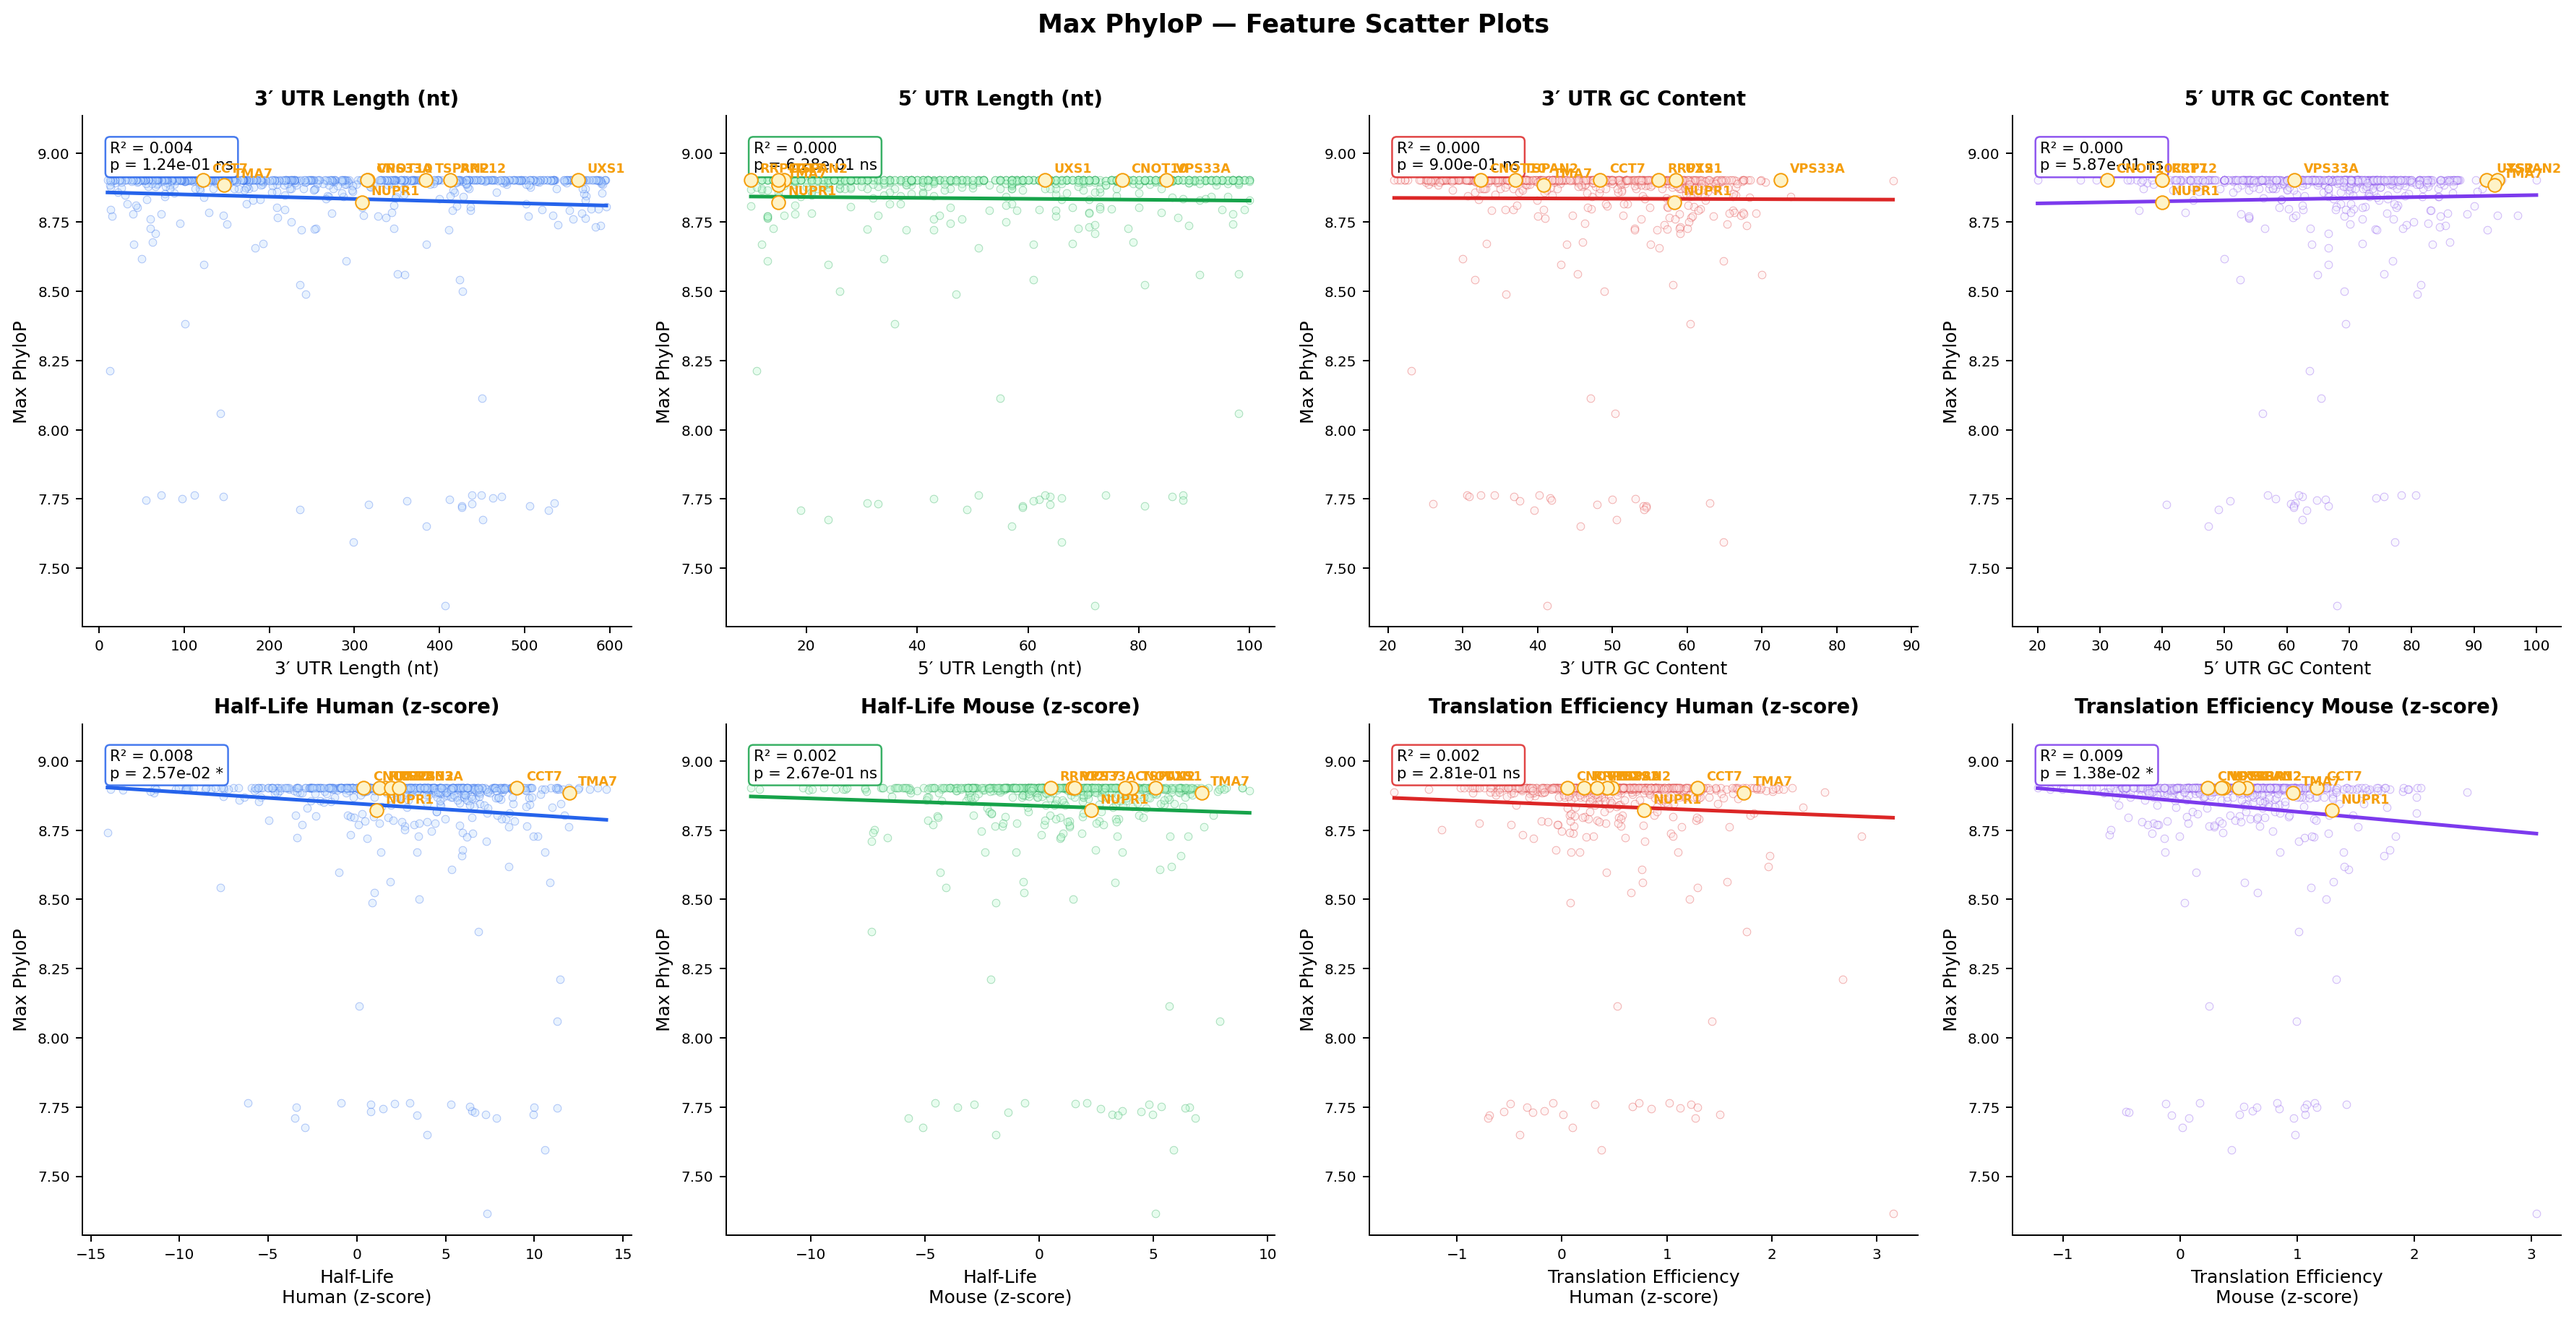
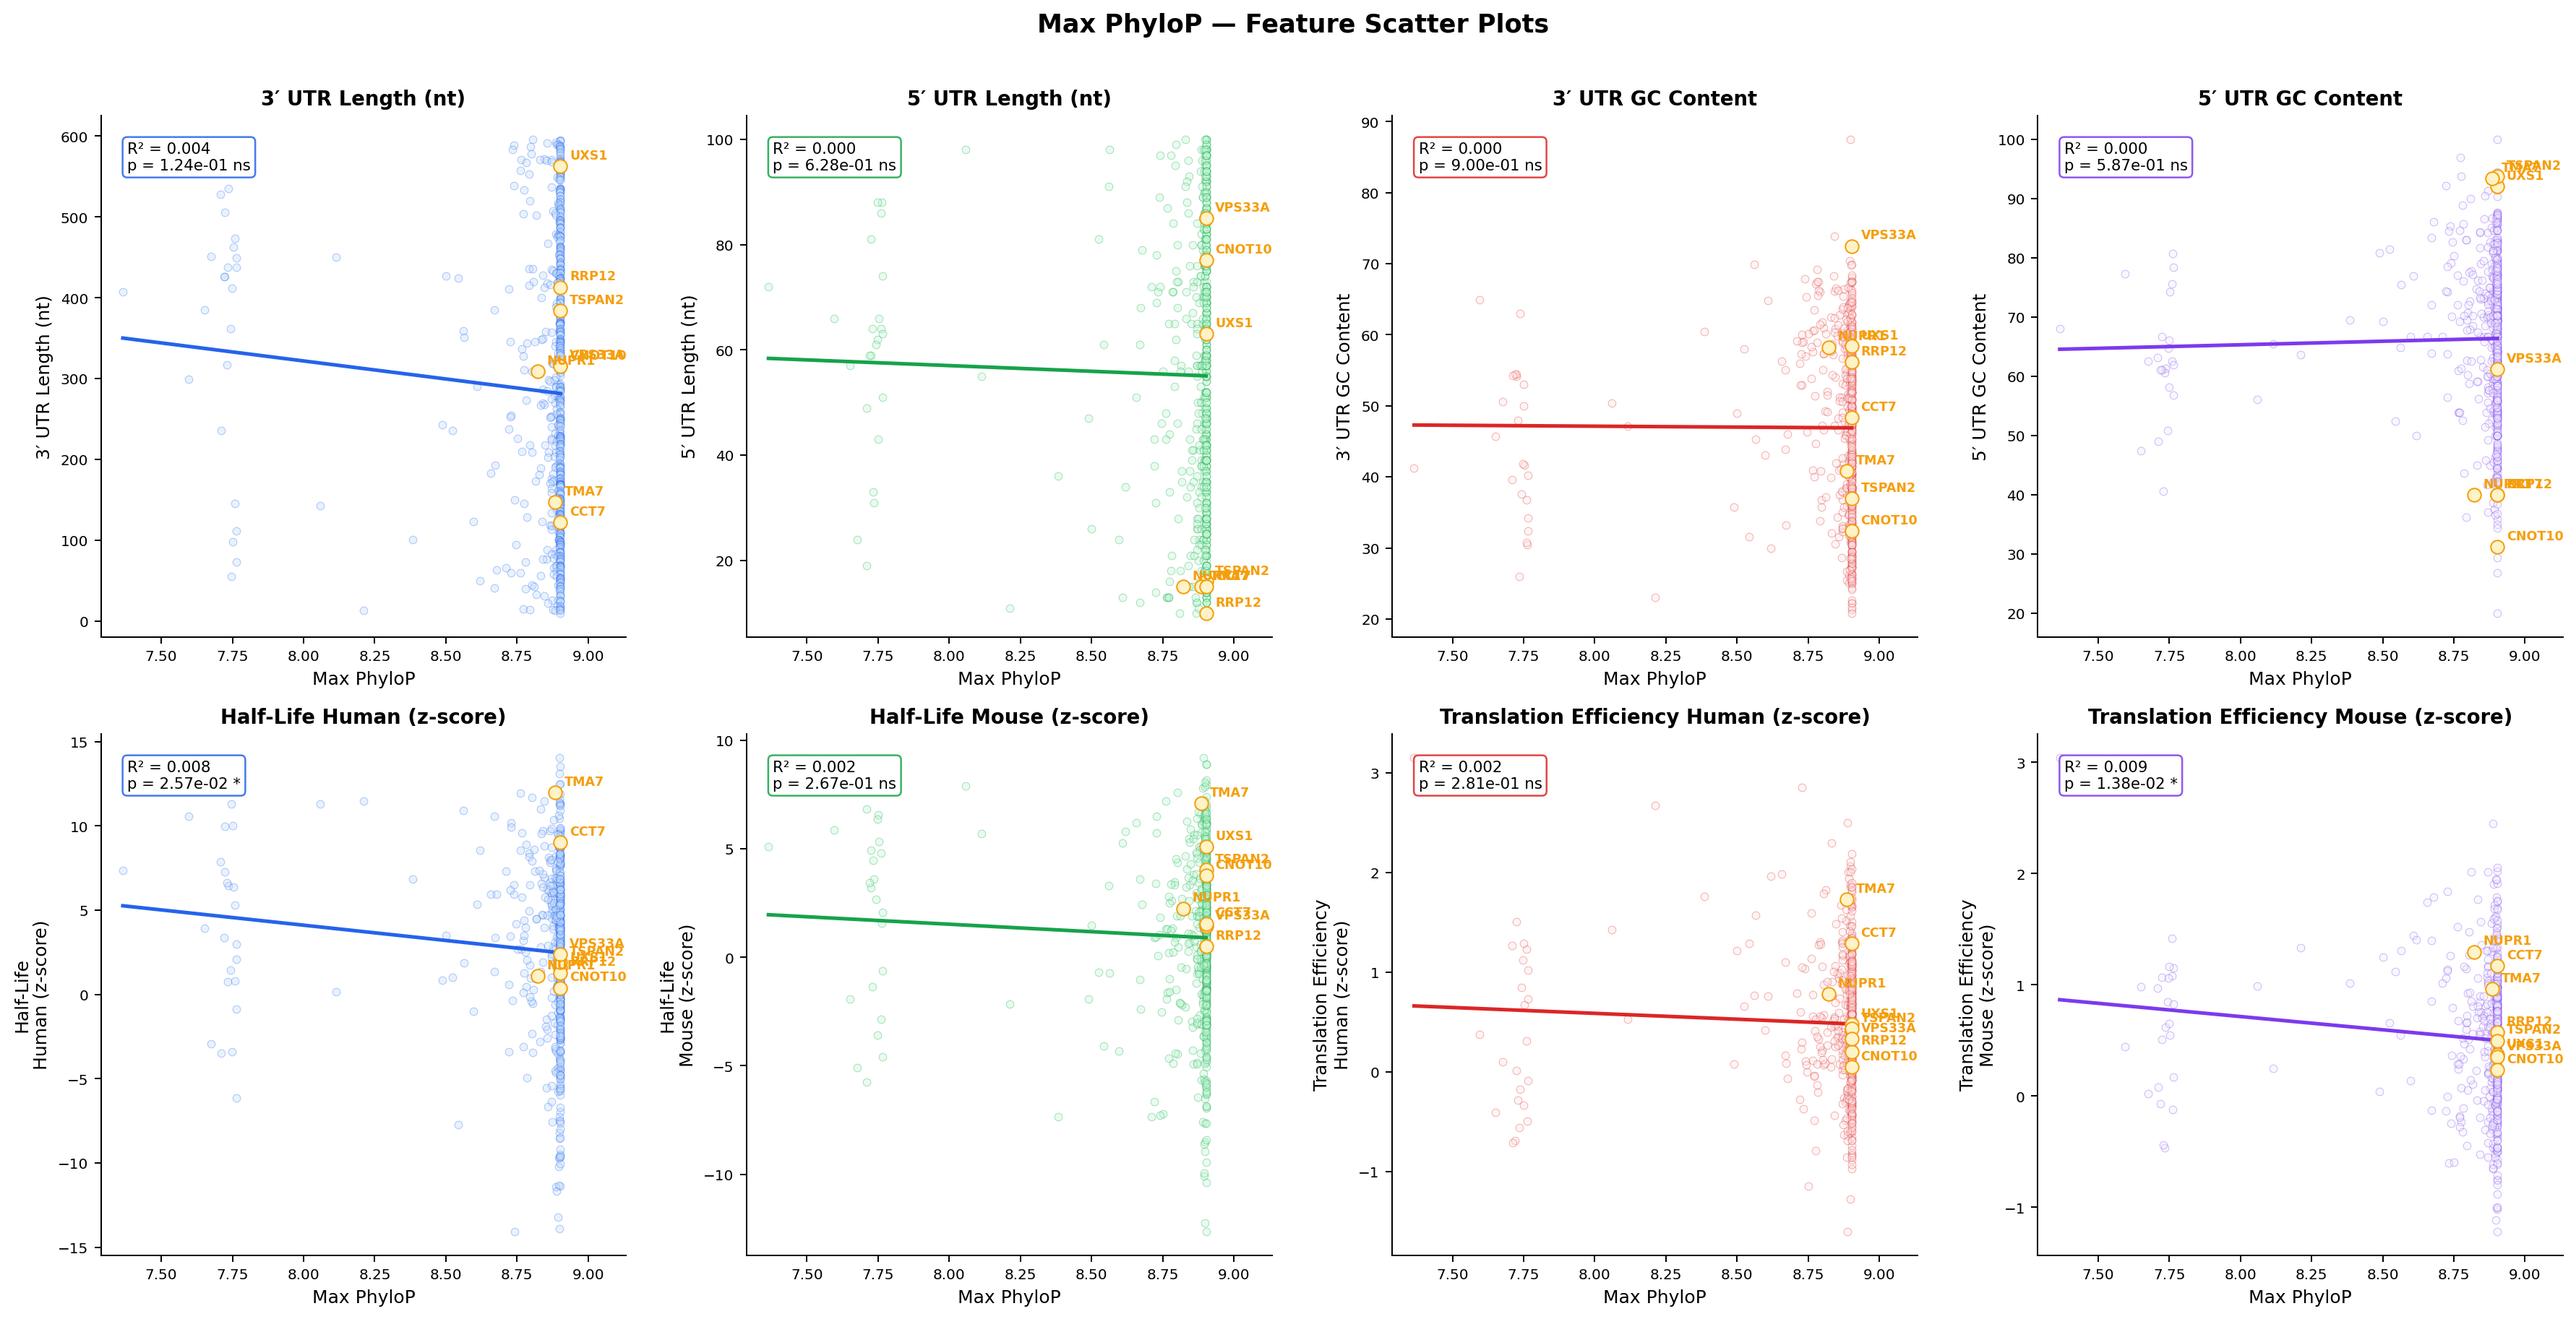
swapping axes for phyloP scatter plots

diff --git a/bin/plot_phyloP.py b/bin/plot_phyloP.py
@@ -178,8 +178,8 @@ def plot_scatter_grid(df, pcol, features, mask, gene_col, outdir):
         accent, light = PALETTE.get(feat, ("#2563EB", "#BFDBFE"))
 
         sub = df[[pcol, feat]].dropna()
-        x   = sub[feat].values
-        y   = sub[pcol].values
+        x   = sub[pcol].values   # phylop on x
+        y   = sub[feat].values   # feature on y
 
         # scatter
         ax.scatter(x, y, color=light, edgecolors=accent, linewidths=0.4,
@@ -202,30 +202,30 @@ def plot_scatter_grid(df, pcol, features, mask, gene_col, outdir):
 
         # highlighted genes
         if mask is not None:
-            hi = df.loc[mask, [feat, pcol]].dropna()
-            ax.scatter(hi[feat], hi[pcol],
+            hi = df.loc[mask, [pcol, feat]].dropna()
+            ax.scatter(hi[pcol], hi[feat],
                        color=HIGHLIGHT_LIGHT, edgecolors=HIGHLIGHT_ACCENT,
                        linewidths=0.8, s=55, zorder=4)
             if gene_col:
                 for idx in hi.index:
                     ax.annotate(
                         str(df.at[idx, gene_col]),
-                        (df.at[idx, feat], df.at[idx, pcol]),
+                        (df.at[idx, pcol], df.at[idx, feat]),
                         textcoords="offset points", xytext=(5, 4),
                         fontsize=7, color=HIGHLIGHT_ACCENT,
                         fontweight="semibold", zorder=5,
                     )
 
-        # give the y-axis a bit of headroom so the dense top cluster
-        # isn't clipped — add 15 % padding above the data max
-        ymin, ymax_auto = ax.get_ylim()
-        data_ymax = sub[pcol].max()
-        padded_ymax = data_ymax + 0.15 * (data_ymax - sub[pcol].min())
-        ax.set_ylim(ymin, max(ymax_auto, padded_ymax))
+        # give the x-axis headroom so the dense right cluster
+        # isn't clipped — add 15% padding to the right of data max
+        xmin, xmax_auto = ax.get_xlim()
+        data_xmax = sub[pcol].max()
+        padded_xmax = data_xmax + 0.15 * (data_xmax - sub[pcol].min())
+        ax.set_xlim(xmin, max(xmax_auto, padded_xmax))
 
         _style_ax(ax)
-        ax.set_xlabel(flabel, fontsize=10)
-        ax.set_ylabel(nice, fontsize=10)
+        ax.set_xlabel(nice, fontsize=10)
+        ax.set_ylabel(flabel, fontsize=10)
         ax.set_title(flabel.replace("\n", " "),
                      fontsize=11, fontweight="semibold")
 
